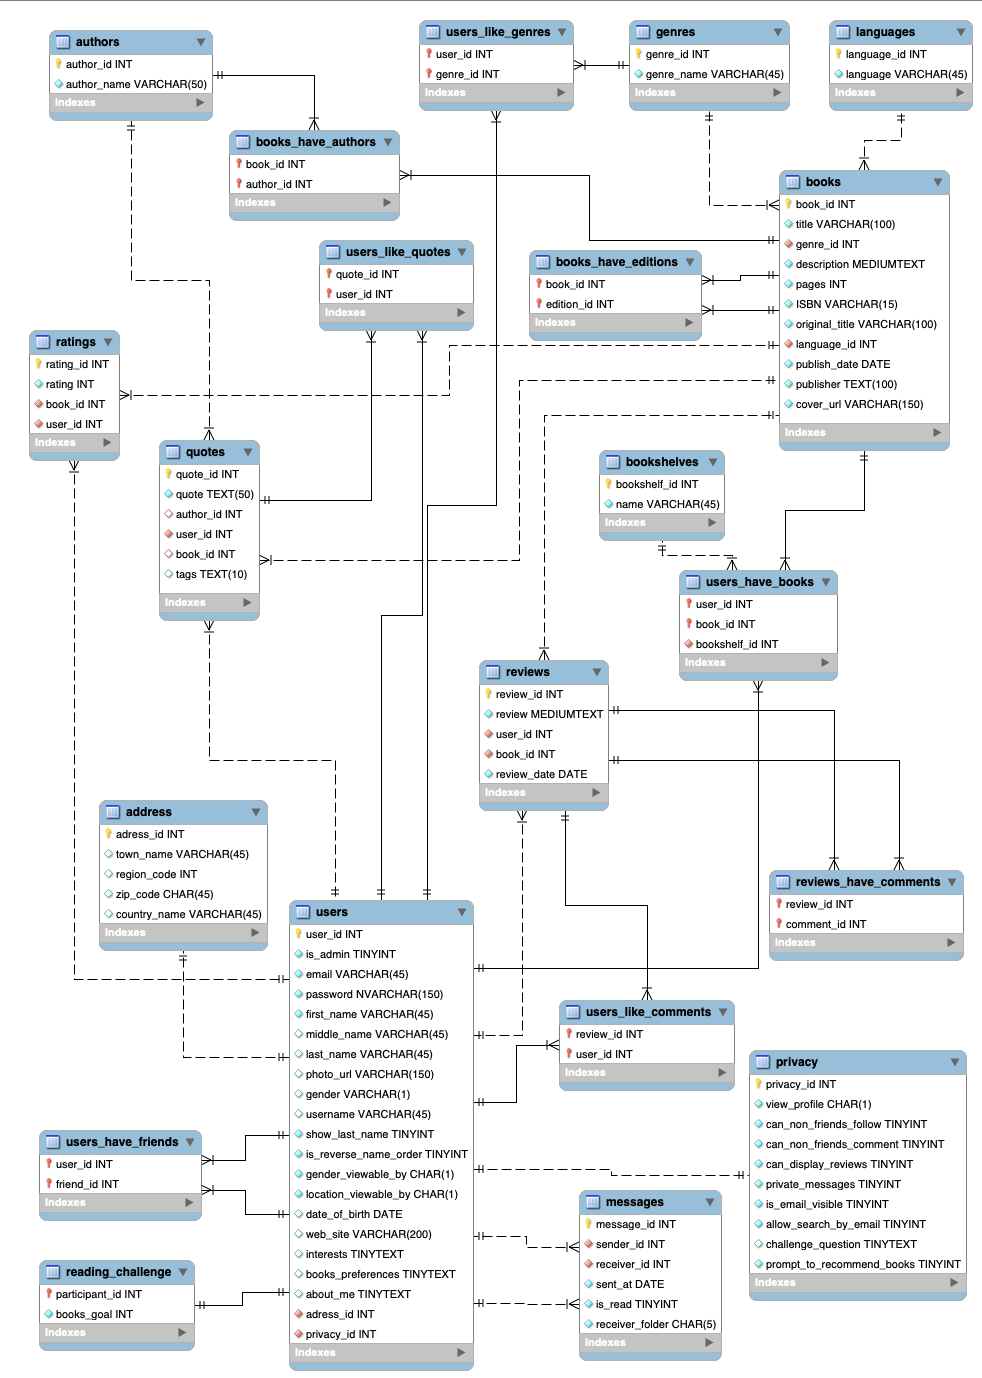
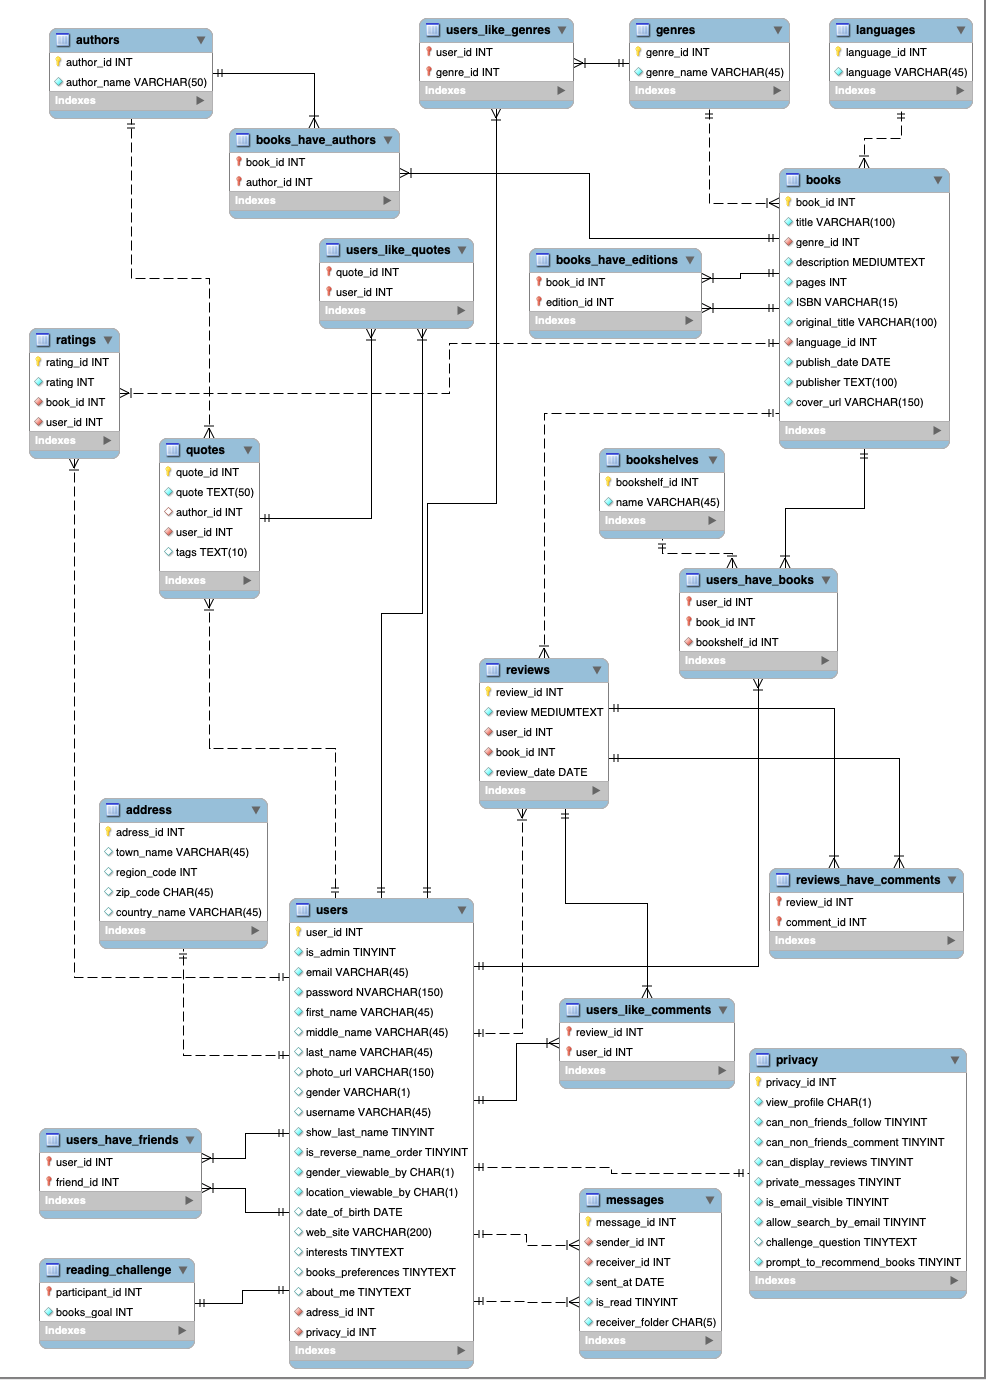
Removed book_id from quotes and fixed Book and Quote entities

diff --git a/GoodReads/src/main/java/com/example/goodreads/model/entities/Book.java b/GoodReads/src/main/java/com/example/goodreads/model/entities/Book.java
@@ -57,9 +57,6 @@ public class Book {
     private Set<Review> reviews;
 
     @OneToMany(mappedBy = "book", fetch = FetchType.LAZY)
-    private Set<Quote> quotes;
-
-    @OneToMany(mappedBy = "book", fetch = FetchType.LAZY)
     private Set<UsersBooks> booksPerUser;
 
     @ManyToMany(cascade={CascadeType.ALL})

diff --git a/GoodReads/src/main/java/com/example/goodreads/model/entities/Quote.java b/GoodReads/src/main/java/com/example/goodreads/model/entities/Quote.java
@@ -25,10 +25,6 @@ public class Quote {
     @JoinColumn(name = "author_id")
     private Author author;
 
-    @ManyToOne
-    @JoinColumn(name = "book_id")
-    private Book book;
-
     @ManyToMany(mappedBy = "favoriteQuotes", fetch = FetchType.LAZY)
     private Set<User> likes;
 }
